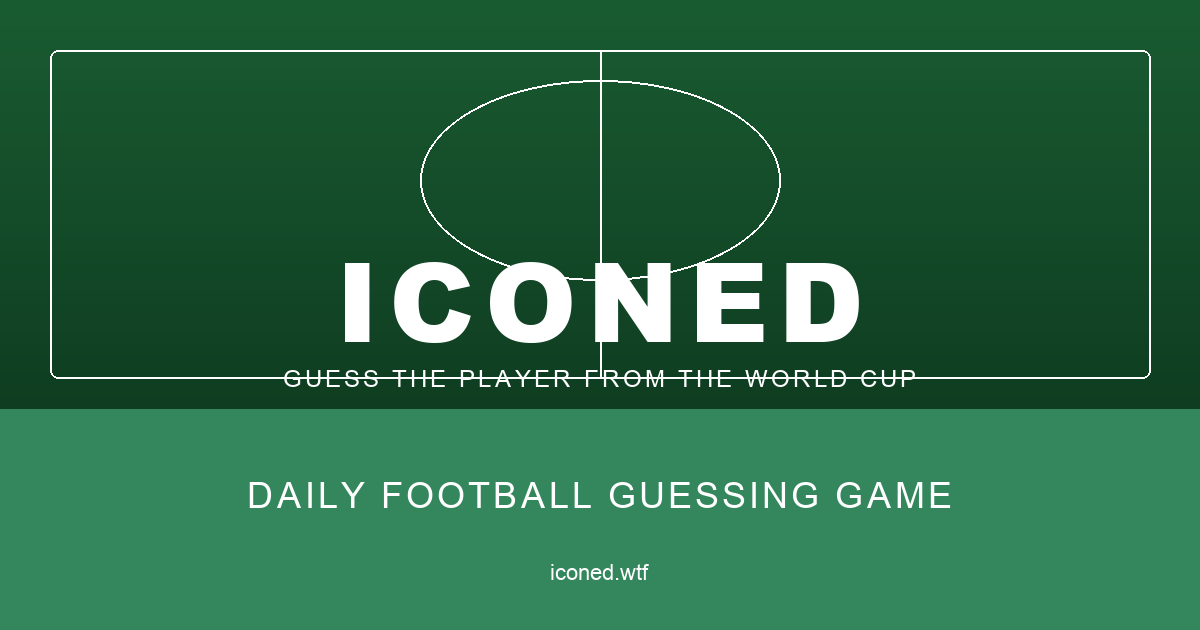
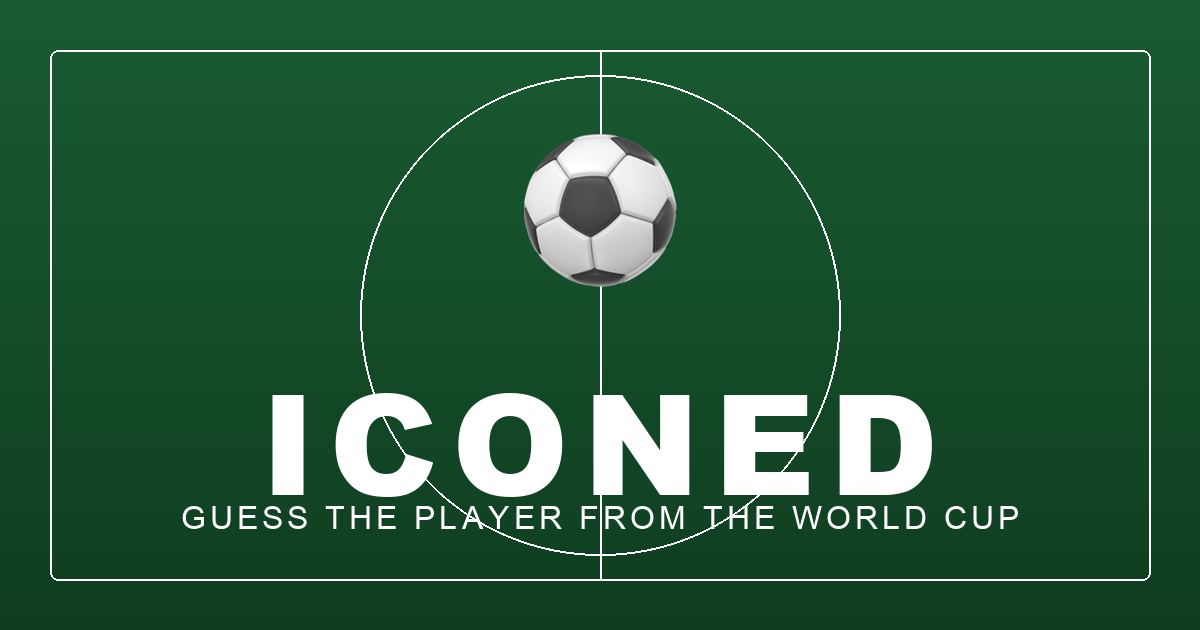
Simplify OG image; rely on iMessage to render text below
- Removed footer section from OG image (was duplicating iMessage's preview)
- OG image now shows only: football + ICONED + subtitle
- Updated og:title to 'Daily Football Guessing Game' so iMessage shows
  it below the image instead of duplicate 'ICONED' text
- Result: clean two-part layout (image + iMessage's preview footer)

diff --git a/index.html b/index.html
@@ -11,7 +11,7 @@
   <!-- Open Graph / iMessage / Facebook -->
   <meta property="og:type" content="website">
   <meta property="og:site_name" content="ICONED">
-  <meta property="og:title" content="ICONED">
+  <meta property="og:title" content="Daily Football Guessing Game">
   <meta property="og:description" content="Guess the player from the World Cup.">
   <meta property="og:url" content="https://iconed.wtf/">
   <meta property="og:image" content="https://iconed.wtf/og-image.png">
@@ -23,7 +23,7 @@
 
   <!-- Twitter / X -->
   <meta name="twitter:card" content="summary_large_image">
-  <meta name="twitter:title" content="ICONED">
+  <meta name="twitter:title" content="Daily Football Guessing Game">
   <meta name="twitter:description" content="Guess the player from the World Cup.">
   <meta name="twitter:image" content="https://iconed.wtf/og-image.png">
 